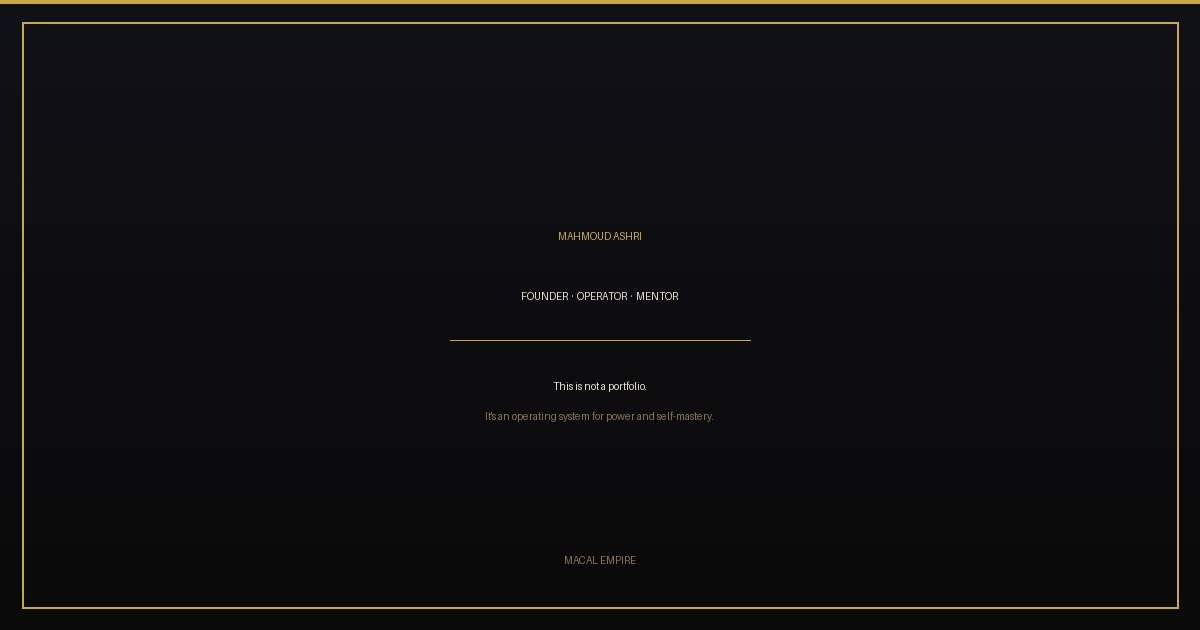
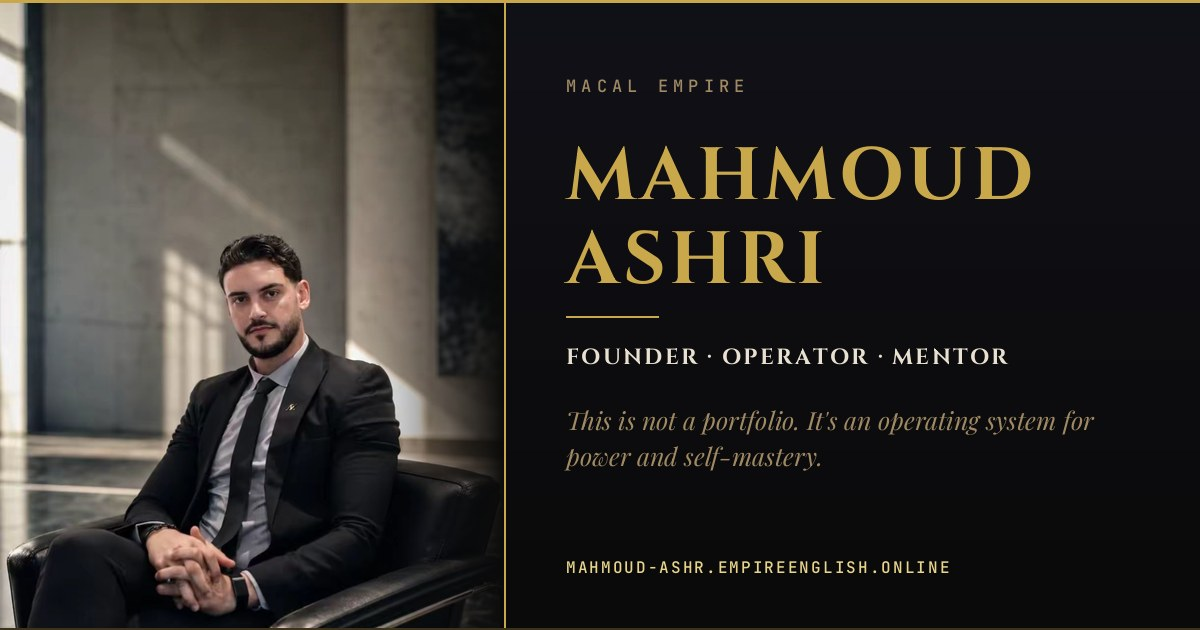
feat(social): real Open Graph share card, replacing the placeholder
Almost all traffic to this page arrives as a shared link — a TikTok bio tap, a
WhatsApp forward, a Telegram post. For most of those visitors the OG card is the
real first impression, seen before the page itself. It was a generated placeholder,
which meant the most valuable moment of attention was being spent on a stub.

Split composition: the marble-lobby portrait on the left feathered into a black
panel on the right carrying the crown kicker, the name, the role line, the thesis
and the domain. A face is included deliberately — text-only cards read as documents
and convert worse on social.

Rendered with the actual brand faces (Cinzel, Playfair Display, JetBrains Mono)
fetched on demand rather than PIL's bitmap default, so the card is typographically
identical to the page it links to. Includes a manual letter-spacing routine because
PIL has no tracking support, and tracked Cinzel is the whole look.

84 KB baseline JPEG, chosen for WhatsApp specifically: it is the fussiest consumer,
prefers cards under ~300 KB, and does not reliably render WebP. The script warns if
the output ever crosses that line.

Fonts are gitignored rather than vendored.

diff --git a/scripts/make_og_card.py b/scripts/make_og_card.py
@@ -1,0 +1,205 @@
+#!/usr/bin/env python3
+"""
+Generate the Open Graph / Twitter share card (1200x630).
+
+WHY THIS MATTERS MORE THAN IT LOOKS
+-----------------------------------
+Almost all traffic to this page arrives as a *shared link* — a TikTok bio tap, a
+WhatsApp forward, a Telegram post. For most of those visitors the OG card is the
+genuine first impression, seen before the page itself. A placeholder card is a wasted
+first impression at the exact moment interest is highest.
+
+DESIGN
+------
+Split composition, because a face raises click-through on social previews and a
+text-only card reads as a document:
+
+    left  40%  — the marble-lobby portrait, scrimmed toward the seam
+    right 60%  — black, gold rule, crown, name, roles, thesis, domain
+
+Rendered with the real brand faces (Cinzel, Playfair Display, JetBrains Mono) rather
+than PIL's bitmap default, so the card is typographically identical to the page it
+links to. Fonts are fetched into scripts/.fonts/ on demand and are not committed —
+they are Google Fonts, freely redistributable, but there is no reason to vendor them.
+
+WhatsApp is the important target and it is the fussiest: it prefers cards under
+~300 KB and it does NOT reliably render WebP, so this outputs baseline JPEG.
+
+Usage:
+    python3 scripts/make_og_card.py
+"""
+
+from __future__ import annotations
+
+import sys
+import urllib.request
+from pathlib import Path
+
+from PIL import Image, ImageDraw, ImageFont
+
+ROOT = Path(__file__).resolve().parent.parent
+FONT_DIR = Path(__file__).resolve().parent / ".fonts"
+PORTRAIT = ROOT / "public" / "photos" / "chapter-02-authority.jpg"
+DEST = ROOT / "public" / "og-image.jpg"
+
+W, H = 1200, 630
+SPLIT = int(W * 0.42)  # where the photo ends and the black panel begins
+
+GOLD = (201, 168, 76)
+GOLD_LIT = (232, 212, 139)
+CREAM = (232, 224, 208)
+MUTED = (160, 138, 99)
+DARK = (10, 10, 10)
+CARD = (17, 17, 24)
+
+FONTS = {
+    "Cinzel-Bold.ttf": "https://fonts.gstatic.com/s/cinzel/v26/8vIU7ww63mVu7gtR-kwKxNvkNOjw-jHgTYo.ttf",
+    "PlayfairDisplay-Italic.ttf": "https://fonts.gstatic.com/s/playfairdisplay/v40/nuFRD-vYSZviVYUb_rj3ij__anPXDTnCjmHKM4nYO7KN_qiTbtY.ttf",
+    "JetBrainsMono-Medium.ttf": "https://fonts.gstatic.com/s/jetbrainsmono/v24/tDbY2o-flEEny0FZhsfKu5WU4zr3E_BX0PnT8RD8-qxjPQ.ttf",
+}
+
+
+def font(name: str, size: int) -> ImageFont.FreeTypeFont:
+    FONT_DIR.mkdir(exist_ok=True)
+    path = FONT_DIR / name
+    if not path.exists():
+        print(f"  fetching {name}")
+        urllib.request.urlretrieve(FONTS[name], path)
+    return ImageFont.truetype(str(path), size)
+
+
+def tracked(
+    draw: ImageDraw.ImageDraw,
+    xy: tuple[int, int],
+    text: str,
+    f: ImageFont.FreeTypeFont,
+    fill: tuple[int, int, int],
+    tracking: float = 0.0,
+    center_width: int | None = None,
+) -> int:
+    """
+    Draw text with manual letter-spacing, since PIL has no tracking support.
+
+    Returns the rendered width, so callers can centre or measure. Tracking is what
+    makes Cinzel read as *engraved* rather than merely set, and it is central to this
+    brand's look — worth the manual loop.
+    """
+    space = f.size * tracking
+    total = sum(f.getlength(ch) + space for ch in text) - space
+
+    x, y = xy
+    if center_width is not None:
+        x = int(x + (center_width - total) / 2)
+
+    for ch in text:
+        draw.text((x, y), ch, font=f, fill=fill)
+        x += f.getlength(ch) + space
+    return int(total)
+
+
+def build() -> Image.Image:
+    img = Image.new("RGB", (W, H), DARK)
+    draw = ImageDraw.Draw(img)
+
+    # ── Right panel: subtle vertical wash so it isn't a flat black rectangle ──
+    for y in range(H):
+        t = y / (H - 1)
+        c = tuple(int(CARD[i] * (1 - t) + DARK[i] * t) for i in range(3))
+        draw.line([(SPLIT, y), (W, y)], fill=c)
+
+    # ── Left: portrait ──
+    if PORTRAIT.exists():
+        p = Image.open(PORTRAIT).convert("RGB")
+        # Cover-fit the left column.
+        target_w, target_h = SPLIT, H
+        scale = max(target_w / p.width, target_h / p.height)
+        p = p.resize((int(p.width * scale), int(p.height * scale)), Image.LANCZOS)
+        # Crop toward the top so the face is kept, not the floor.
+        left = max(0, (p.width - target_w) // 2)
+        top = max(0, int((p.height - target_h) * 0.18))
+        p = p.crop((left, top, left + target_w, top + target_h))
+        img.paste(p, (0, 0))
+
+        # Feather the seam into the black panel so the split reads as one composition.
+        feather = 150
+        grad = Image.new("L", (feather, H))
+        gd = ImageDraw.Draw(grad)
+        for x in range(feather):
+            gd.line([(x, 0), (x, H)], fill=int(255 * (x / feather) ** 1.4))
+        black = Image.new("RGB", (feather, H), DARK)
+        region = img.crop((SPLIT - feather, 0, SPLIT, H))
+        img.paste(Image.composite(black, region, grad), (SPLIT - feather, 0))
+    else:
+        print(f"  WARNING: portrait not found at {PORTRAIT}", file=sys.stderr)
+
+    # ── Gold seam ──
+    draw.line([(SPLIT, 0), (SPLIT, H)], fill=GOLD, width=2)
+    # Top and bottom brand rules.
+    draw.line([(0, 0), (W, 0)], fill=GOLD, width=5)
+    draw.line([(0, H - 1), (W, H - 1)], fill=(60, 50, 28), width=3)
+
+    # ── Right panel content ──
+    x0 = SPLIT + 62
+    col = W - x0 - 62
+
+    f_kicker = font("JetBrainsMono-Medium.ttf", 17)
+    f_name = font("Cinzel-Bold.ttf", 74)
+    f_role = font("Cinzel-Bold.ttf", 22)
+    f_thesis = font("PlayfairDisplay-Italic.ttf", 25)
+    f_domain = font("JetBrainsMono-Medium.ttf", 16)
+
+    y = 74
+    tracked(draw, (x0, y), "MACAL EMPIRE", f_kicker, MUTED, 0.30)
+
+    y += 52
+    tracked(draw, (x0, y), "MAHMOUD", f_name, GOLD, 0.05)
+    y += 84
+    tracked(draw, (x0, y), "ASHRI", f_name, GOLD, 0.05)
+
+    y += 106
+    draw.line([(x0, y), (x0 + 92, y)], fill=GOLD, width=2)
+
+    y += 26
+    tracked(draw, (x0, y), "FOUNDER · OPERATOR · MENTOR", f_role, CREAM, 0.10)
+
+    # ── Thesis, wrapped by measured width ──
+    y += 60
+    thesis = "This is not a portfolio. It's an operating system for power and self-mastery."
+    words, line, lines = thesis.split(), "", []
+    for word in words:
+        probe = f"{line} {word}".strip()
+        if f_thesis.getlength(probe) <= col:
+            line = probe
+        else:
+            lines.append(line)
+            line = word
+    if line:
+        lines.append(line)
+
+    for ln in lines[:3]:
+        draw.text((x0, y), ln, font=f_thesis, fill=MUTED)
+        y += 36
+
+    # ── Domain, pinned to the bottom ──
+    tracked(draw, (x0, H - 74), "MAHMOUD-ASHR.EMPIREENGLISH.ONLINE", f_domain, GOLD_LIT, 0.13)
+
+    return img
+
+
+def main() -> int:
+    if not PORTRAIT.exists():
+        print(f"portrait missing: {PORTRAIT}", file=sys.stderr)
+        return 1
+
+    img = build()
+    img.save(DEST, "JPEG", quality=88, optimize=True, progressive=False)
+    kb = DEST.stat().st_size / 1024
+    print(f"  wrote {DEST.relative_to(ROOT)}  {img.width}x{img.height}  {kb:.1f} KB")
+
+    if kb > 300:
+        print("  NOTE: over ~300 KB — WhatsApp may skip the preview. Lower quality.")
+    return 0
+
+
+if __name__ == "__main__":
+    raise SystemExit(main())
